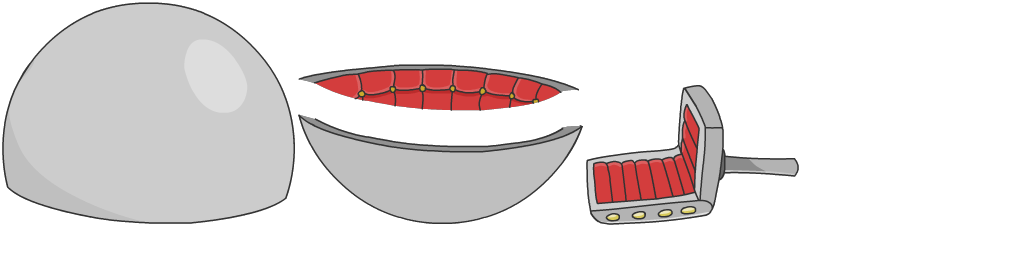
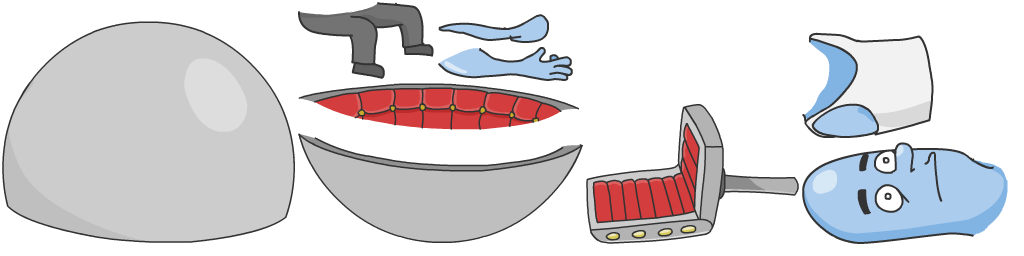
Added so that balloon man sits in the ball in the lab.

diff --git a/MobilePlatformer/Assets/Code/System/LabView.cs b/MobilePlatformer/Assets/Code/System/LabView.cs
@@ -29,6 +29,7 @@ public class LabView : UIView {
 			FollowObjectOffset = new Vector3(4,0,0);
 			FollowObject = labBall.gameObject;
 			BallonMan.StopMoving();
+			BallonMan.gameObject.SetActive (false);
 		});
 		labButtonShrink.OnClick += (() => {
 			if (isShrinking) return;
